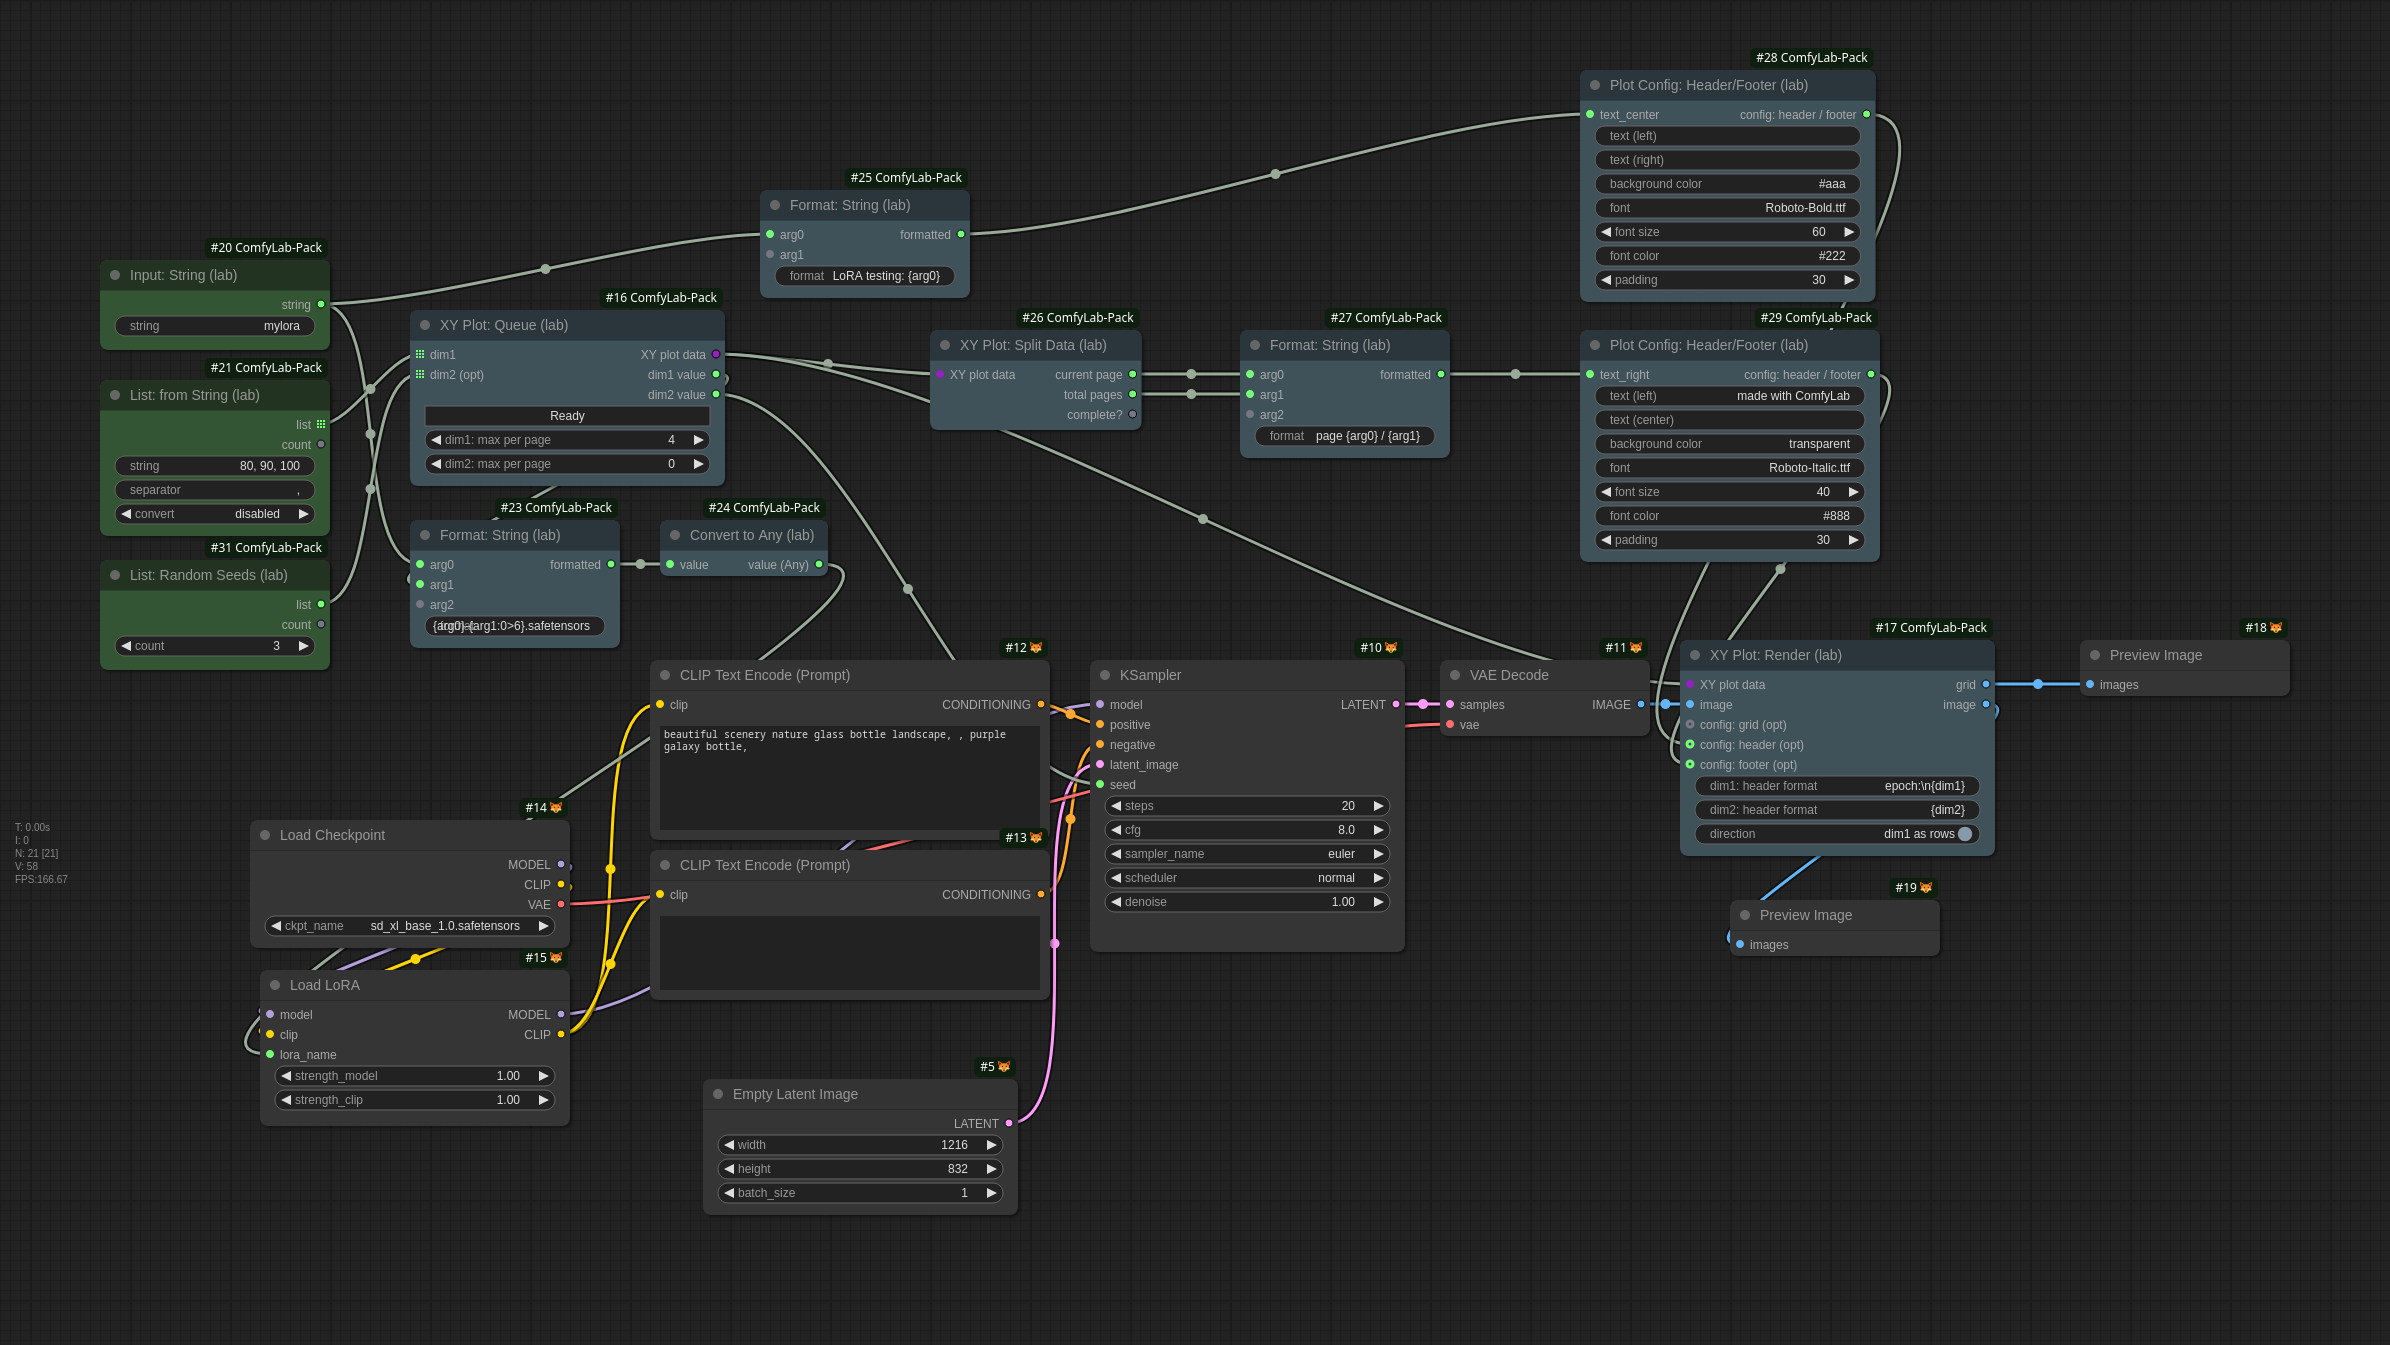
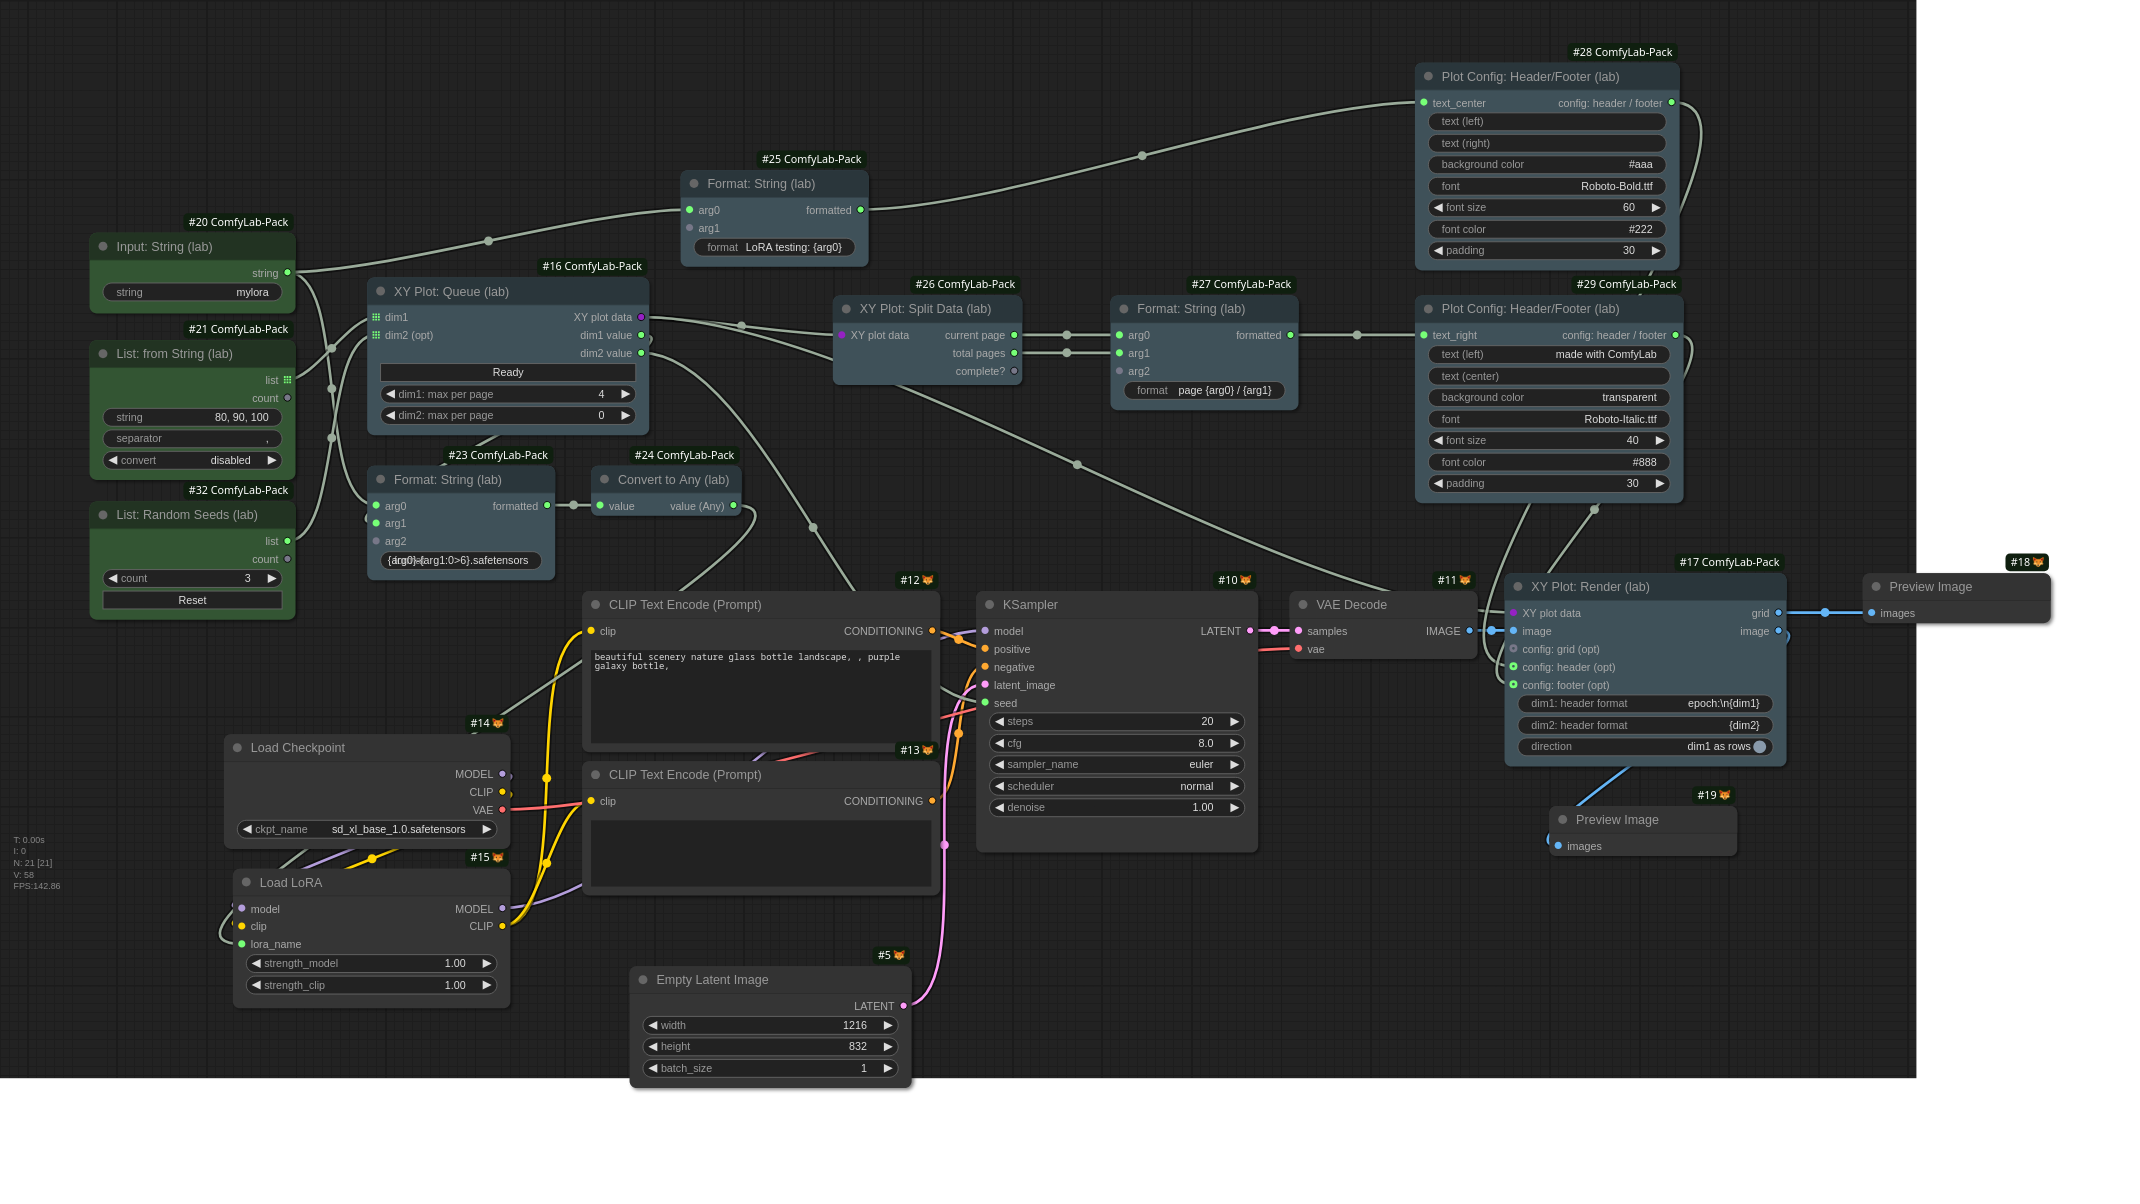
improve node 'List: Random Seeds' (#14)
* improve node `List: Random Seeds`
* bump version to 0.0.7

diff --git a/dist/js/nodes/list.js b/dist/js/nodes/list.js
@@ -1,5 +1,5 @@
 import { findWidget, loadTextFile } from '../shared/utils.js';
-import { makeComboWidget } from '../widgets/factories.js';
+import { makeComboWidget, makeButtonWidget } from '../widgets/factories.js';
 export function ListFromMultiline(nodeType) {
     const original_onNodeCreated = nodeType.prototype.onNodeCreated;
     nodeType.prototype.onNodeCreated = function (...args) {
@@ -87,5 +87,28 @@ export function ListFromSelection(nodeType, selection_type) {
         original_onConfigure?.apply(this, ...args);
         const selectionWidget = findWidget(this, 'selection');
         refreshFromSelection(this, selectionWidget);
+    };
+}
+export function ListRandomSeeds(nodeType) {
+    const reset = (widget) => {
+        widget.value = new Date().getTime();
+    };
+    const original_onNodeCreated = nodeType.prototype.onNodeCreated;
+    nodeType.prototype.onNodeCreated = function (...args) {
+        original_onNodeCreated?.apply(this, ...args);
+        const resetBtn = makeButtonWidget(this, 'reset_btn', 'Reset', {
+            tooltip: 'reset seeds',
+        });
+        resetBtn.callback = () => {
+            reset(resetBtn);
+        };
+        reset(resetBtn);
+    };
+    const original_onConfigure = nodeType.prototype.onConfigure;
+    nodeType.prototype.onConfigure = function (...args) {
+        original_onConfigure?.apply(this, ...args);
+        const resetBtn = findWidget(this, 'reset_btn');
+        if (resetBtn)
+            reset(resetBtn);
     };
 }

diff --git a/src/ts/nodes/list.ts b/src/ts/nodes/list.ts
@@ -1,7 +1,7 @@
 import type { LGraphNode, IWidget } from '@comfyorg/litegraph'
 
 import { findWidget, loadTextFile } from '~/shared/utils.js'
-import { makeComboWidget } from '~/widgets/factories.js'
+import { makeComboWidget, makeButtonWidget } from '~/widgets/factories.js'
 
 export function ListFromMultiline(
 	nodeType: LGraphNode,
@@ -126,5 +126,30 @@ export function ListFromSelection(
 		original_onConfigure?.apply(this, ...args)
 		const selectionWidget = findWidget(this, 'selection')
 		refreshFromSelection(this, selectionWidget)
+	}
+}
+
+export function ListRandomSeeds(nodeType: LGraphNode) {
+	const reset = (widget: IWidget) => {
+		widget.value = new Date().getTime()
+	}
+
+	const original_onNodeCreated = nodeType.prototype.onNodeCreated
+	nodeType.prototype.onNodeCreated = function (...args: unknown[]) {
+		original_onNodeCreated?.apply(this, ...args)
+		const resetBtn = makeButtonWidget(this, 'reset_btn', 'Reset', {
+			tooltip: 'reset seeds',
+		})
+		resetBtn.callback = () => {
+			reset(resetBtn)
+		}
+		reset(resetBtn)
+	}
+
+	const original_onConfigure = nodeType.prototype.onConfigure
+	nodeType.prototype.onConfigure = function (...args: unknown[]) {
+		original_onConfigure?.apply(this, ...args)
+		const resetBtn = findWidget(this, 'reset_btn')
+		if (resetBtn) reset(resetBtn)
 	}
 }

diff --git a/dist/js/register.js b/dist/js/register.js
@@ -5,7 +5,7 @@ import { setupDynamicConnections } from './shared/dynamic_connections.js';
 import { QUEUE_STATUS } from './widgets/queue.js';
 import { HIDDEN, BTN, ERROR_DISPLAY, SELECTION_LIST } from './widgets/misc.js';
 import { OutputConfigBackend, OutputConfigLocal } from './nodes/config.js';
-import { ListFromMultiline, ListFromSelection } from './nodes/list.js';
+import { ListFromMultiline, ListFromSelection, ListRandomSeeds, } from './nodes/list.js';
 import { InputMultiline } from './nodes/input.js';
 import { DebugJSONYAML, DebugWidgetVisibility } from './nodes/debug.js';
 globalThis[CATEGORY] = { log: 'debug' };
@@ -42,6 +42,9 @@ app.registerExtension({
                 break;
             case 'ListSchedulers':
                 ListFromSelection(nodeType, 'scheduler');
+                break;
+            case 'ListRandomSeeds':
+                ListRandomSeeds(nodeType);
                 break;
             case 'InputMultiline':
                 InputMultiline(nodeType);

diff --git a/src/ts/register.ts b/src/ts/register.ts
@@ -9,7 +9,11 @@ import { setupDynamicConnections } from '~/shared/dynamic_connections.js'
 import { QUEUE_STATUS } from '~/widgets/queue.js'
 import { HIDDEN, BTN, ERROR_DISPLAY, SELECTION_LIST } from '~/widgets/misc.js'
 import { OutputConfigBackend, OutputConfigLocal } from '~/nodes/config.js'
-import { ListFromMultiline, ListFromSelection } from '~/nodes/list.js'
+import {
+	ListFromMultiline,
+	ListFromSelection,
+	ListRandomSeeds,
+} from '~/nodes/list.js'
 import { InputMultiline } from '~/nodes/input.js'
 import { DebugJSONYAML, DebugWidgetVisibility } from '~/nodes/debug.js'
 
@@ -56,6 +60,9 @@ app.registerExtension({
 				break
 			case 'ListSchedulers':
 				ListFromSelection(nodeType, 'scheduler')
+				break
+			case 'ListRandomSeeds':
+				ListRandomSeeds(nodeType)
 				break
 			// INPUT
 			case 'InputMultiline':

diff --git a/src/python/nodes/plot.py b/src/python/nodes/plot.py
@@ -82,9 +82,6 @@ class XYPlotQueue:
     )
     DESCRIPTION = 'Loop through all values of dim1, optionally combined with dim2 values, and send them to outputs.\nIMPORTANT: for a given dim1 value, all dim2 values are first iterated, before going to the next dim1 value.\nSo it is advised to associate slow operations (e.g. loading checkpoints) to dim1, to ensure better performance.'
 
-    dim1 = []
-    dim2 = []
-
     def run(
         self,
         dim1: list[str],
@@ -93,15 +90,8 @@ class XYPlotQueue:
         index: int,
         dim2: list[str] = [''],
     ):
-        # store the input lists, to allow using input nodes that change at each prompt (ex. ListRandomSeeds)
-        if index == 0:
-            if len(dim2) == 0:
-                dim2 = ['']
-            self.dim1 = dim1
-            self.dim2 = dim2
-        else:
-            dim1 = self.dim1
-            dim2 = self.dim2
+        if len(dim2) == 0:
+            dim2 = ['']
 
         # to simplify code below
         size = (len(dim1), len(dim2))

diff --git a/src/python/nodes/queue.py b/src/python/nodes/queue.py
@@ -33,15 +33,7 @@ class GenericQueue:
     OUTPUT_TOOLTIPS = ('current value (not typed)', 'current index', 'total elements')
     DESCRIPTION = 'Loop through all values of input list, and send them to output.'
 
-    input_list = []
-
     def run(self, input_list: list[Any], index: int):
-        # store the input list, to allow using input nodes that change at each prompt (ex. ListRandomSeeds)
-        if index == 0:
-            self.input_list = input_list
-        else:
-            input_list = self.input_list
-
         total = len(input_list)
         if total == 0:
             raise Exception('Empty input list')

diff --git a/src/python/nodes/list.py b/src/python/nodes/list.py
@@ -366,11 +366,6 @@ class ListRandomSeeds:
     )
     DESCRIPTION = 'Create a list of random seeds.'
 
-    # ensure the list is regenerated
-    @classmethod
-    def IS_CHANGED(cls, **kwargs):
-        return float('NaN')
-
     def run(self, count):
         values = []
         for i in range(0, count):

diff --git a/wiki/tutorials/XY Plot/3 - complex variations/README.md b/wiki/tutorials/XY Plot/3 - complex variations/README.md
@@ -13,7 +13,7 @@ Each of these approaches will generate the same results: depending on your speci
 
 > [!TIP]
 > In the following, we vary checkpoints vs a fixed list of seeds.
-> If you prefer to have a new set of **random seeds** each time you generate the grid, just replace the corresponding `List: ftom Multiline` node with `List: Random Seeds`.
+> If you prefer to have a new set of **random seeds** each time you want, just replace the corresponding `List: ftom Multiline` node with `List: Random Seeds`.
 
 Tutorial sections:
 

diff --git a/wiki/examples/XY Plot/LoRA testing/Epochs vs Seeds/README.md b/wiki/examples/XY Plot/LoRA testing/Epochs vs Seeds/README.md
@@ -79,4 +79,4 @@ Load either `LoRA testing - epochs vs random seeds.json` or `LoRA testing - epoc
 
 This example is similar to first one, except that we replace the `List: from Multiline` node with `List: Random Seeds`.
 
-Thanks to it, we generate a new list of random seeds each time we generate a new grid.
+Thanks to it, we generate a new list of random seeds each time we want: either by refreshing the page, or by clicking the `Reset` button.

diff --git a/CHANGELOG.md b/CHANGELOG.md
@@ -4,6 +4,14 @@
 
 ## v0.0
 
+## v0.0.7 (2025-01-29)
+
+- improve node `List: Random Seeds`
+
+## v0.0.6 (2025-01-29)
+
+- adjust project description
+
 ## v0.0.5 (2025-01-29)
 
 - new List utility nodes: Random Seeds / Checkpoints / LoRAs / Samplers/ Schedulers
